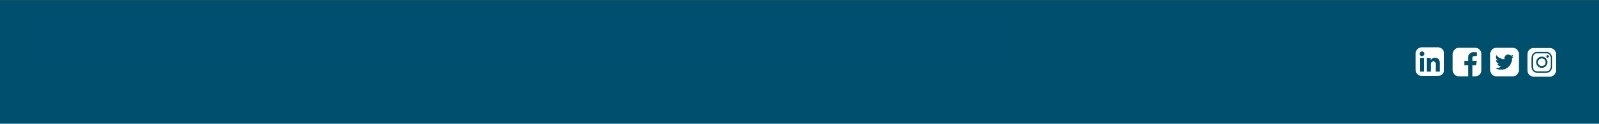
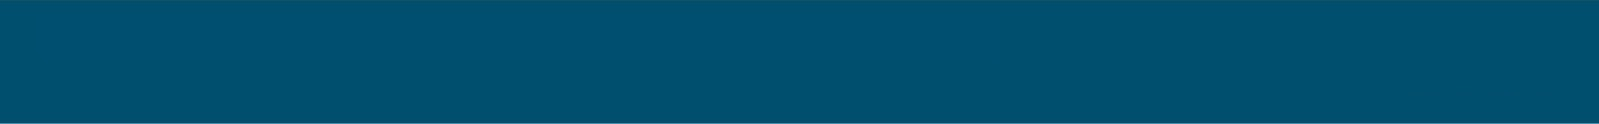
Iconos redes sociales

Changed region(s): [[0.858, 0.3629, 0.9806, 0.629]]

diff --git a/resources/views/layouts/app.blade.php b/resources/views/layouts/app.blade.php
@@ -148,14 +148,16 @@
                     <p class="text-center colorW letraFooter">Respaldado por LEXTAX, GRUPO LINK Y STUPENDO. </p>
                 </div>
                 <div class="col-lg-4 col-md-4 col-sm-4 ">
-                    <div class="socialSimple text-right mr-4 mt-4">
-                        <a class="mr-2" id="" title="LinkedIn" href="" target="_blank"><img src="img/logo_in.png"></a>
-                        <a class="mr-1" id="" title="Connect with us on facebook" href=""><img
-                                src="img/logo_facebook.png"></a>
+                    <div class="text-right mr-4 mt-4">
+                        <a class="mr-2" id="" title="LinkedIn" href="" target="_blank"><img style="visibility: hidden;"
+                                src="img/linkedin.png"></a>
                         <a class="mr-1" id="" title="Follow us on Twitter" href="" target="_blank"><img
-                                src="img/logo_twitter.png"></a>
-                        <a class="mr-1" id="" title="Instagram" href="" target="_blank"><img
-                                src="img/logo_insta.png"></a>
+                                style="visibility: hidden;" src="img/twitter.png"></a>
+                        <a class="mr-1" id="" title="Connect with us on facebook"
+                            href="https://www.facebook.com/TD-Vuelvo-105310731323396/"><img src="img/facebook.png"></a>
+                        <a class="mr-1" id="" title="Instagram"
+                            href="https://instagram.com/tdvuelvo?igshid=44hvyevb9grr" target="_blank"><img
+                                src="img/instagram.png"></a>
                     </div>
                 </div>
             </div>
